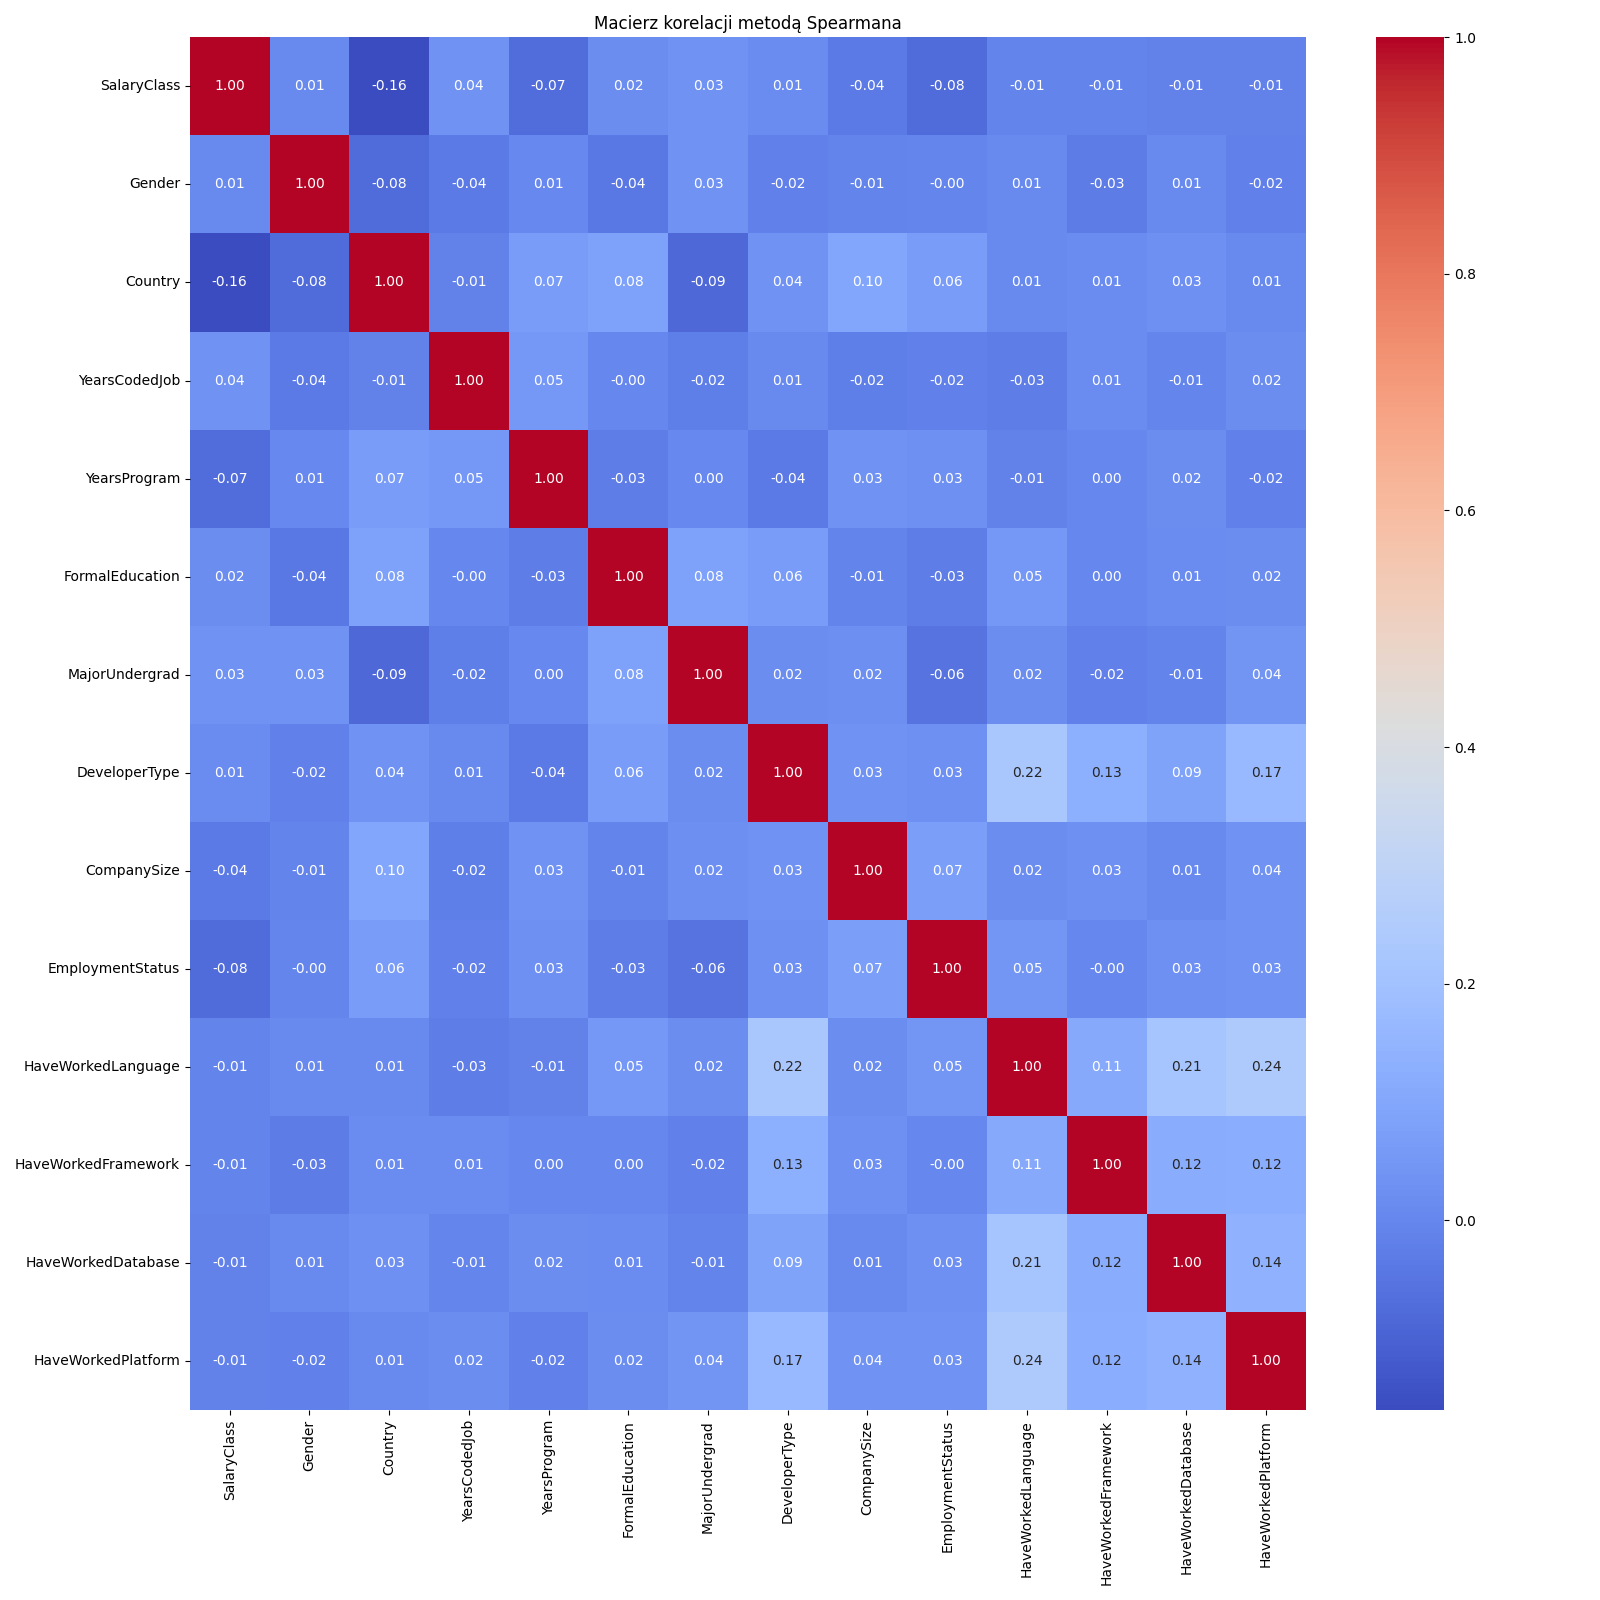
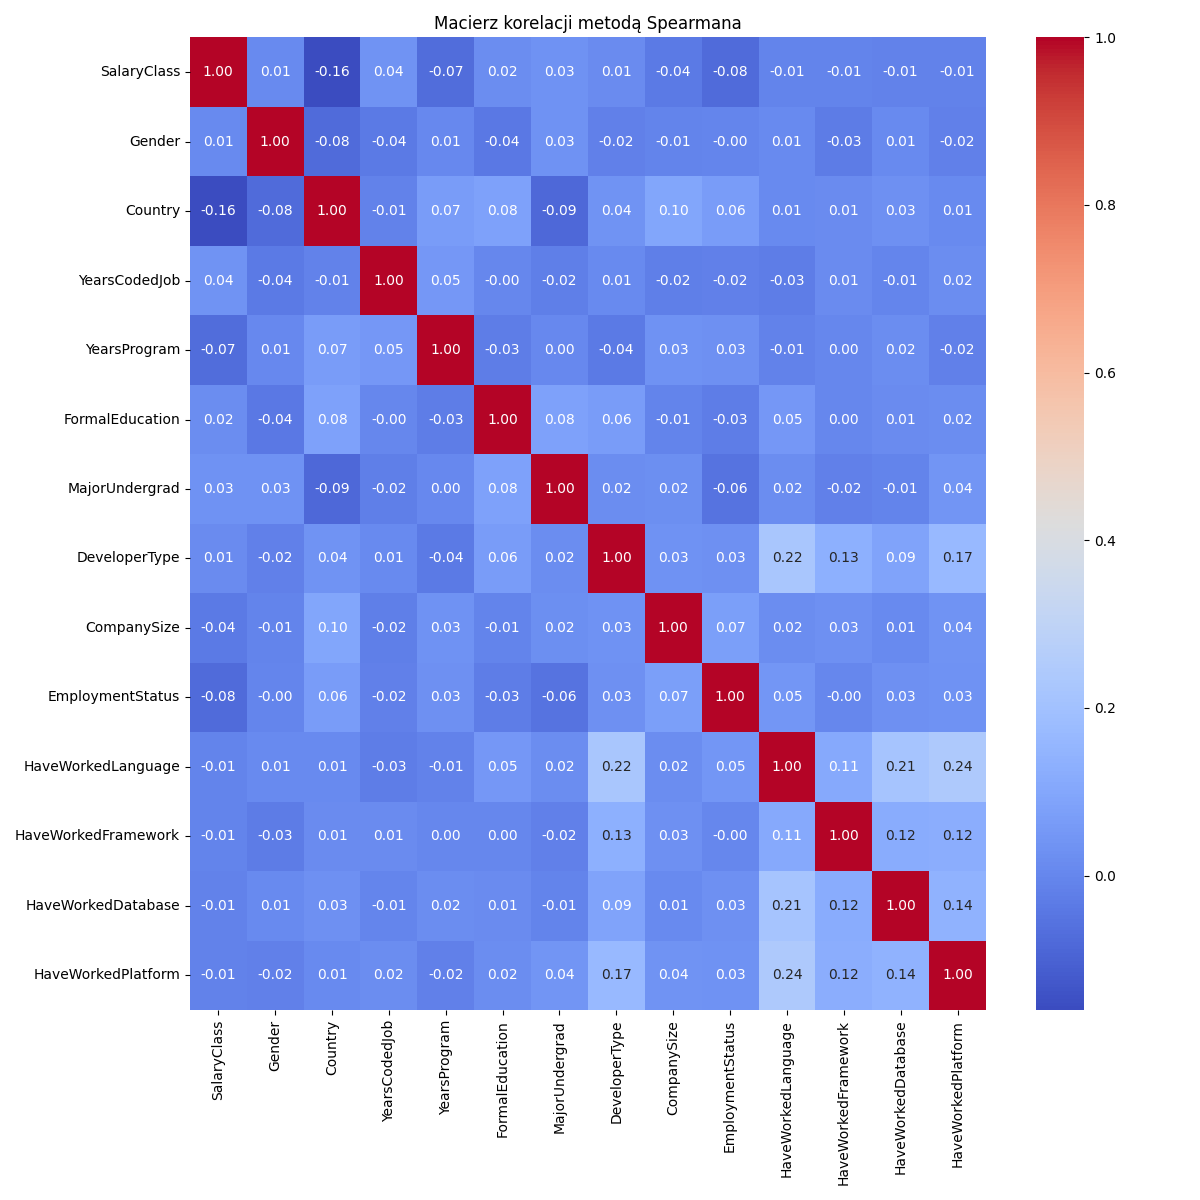
Update figure sizes

diff --git a/main.py b/main.py
@@ -58,7 +58,7 @@ df_nominal = df[nominal_attrs].dropna()
 # Draw histograms (attribute values distribution)
 for attr in nominal_attrs:
     attr_counts = df_nominal[attr].value_counts().head(10)
-    plt.figure(figsize = (16,12))
+    plt.figure(figsize = (12,8))
     plt.bar(attr_counts.index, attr_counts.values)
     plt.xlabel(attr)
     plt.xticks(rotation=45, ha='right')
@@ -71,7 +71,7 @@ for attr in nominal_attrs:
 # Calculate salary outliers
 valid_idx = df_nominal.dropna().index.intersection(df.index)
 salary = df.loc[valid_idx, ["Salary"]]["Salary"]
-plt.figure(figsize=(16, 12))
+plt.figure(figsize=(12, 8))
 sns.boxplot(x=salary.values)
 plt.xlabel("Salary")
 plt.title(f"Punkty oddalone atrybutu Salary")
@@ -91,7 +91,7 @@ df_encoded = df_nominal.apply(lambda x: pd.factorize(x)[0])
 corr_matrix = spearmanr(df_encoded)[0]
 corr_df = pd.DataFrame(corr_matrix, index=nominal_attrs, columns=nominal_attrs)
 
-plt.figure(figsize = (16,16))
+plt.figure(figsize = (12,12))
 sns.heatmap(corr_df, annot=True, fmt=".2f", cmap="coolwarm", cbar=True)
 plt.title("Macierz korelacji metodą Spearmana")
 plt.tight_layout()
